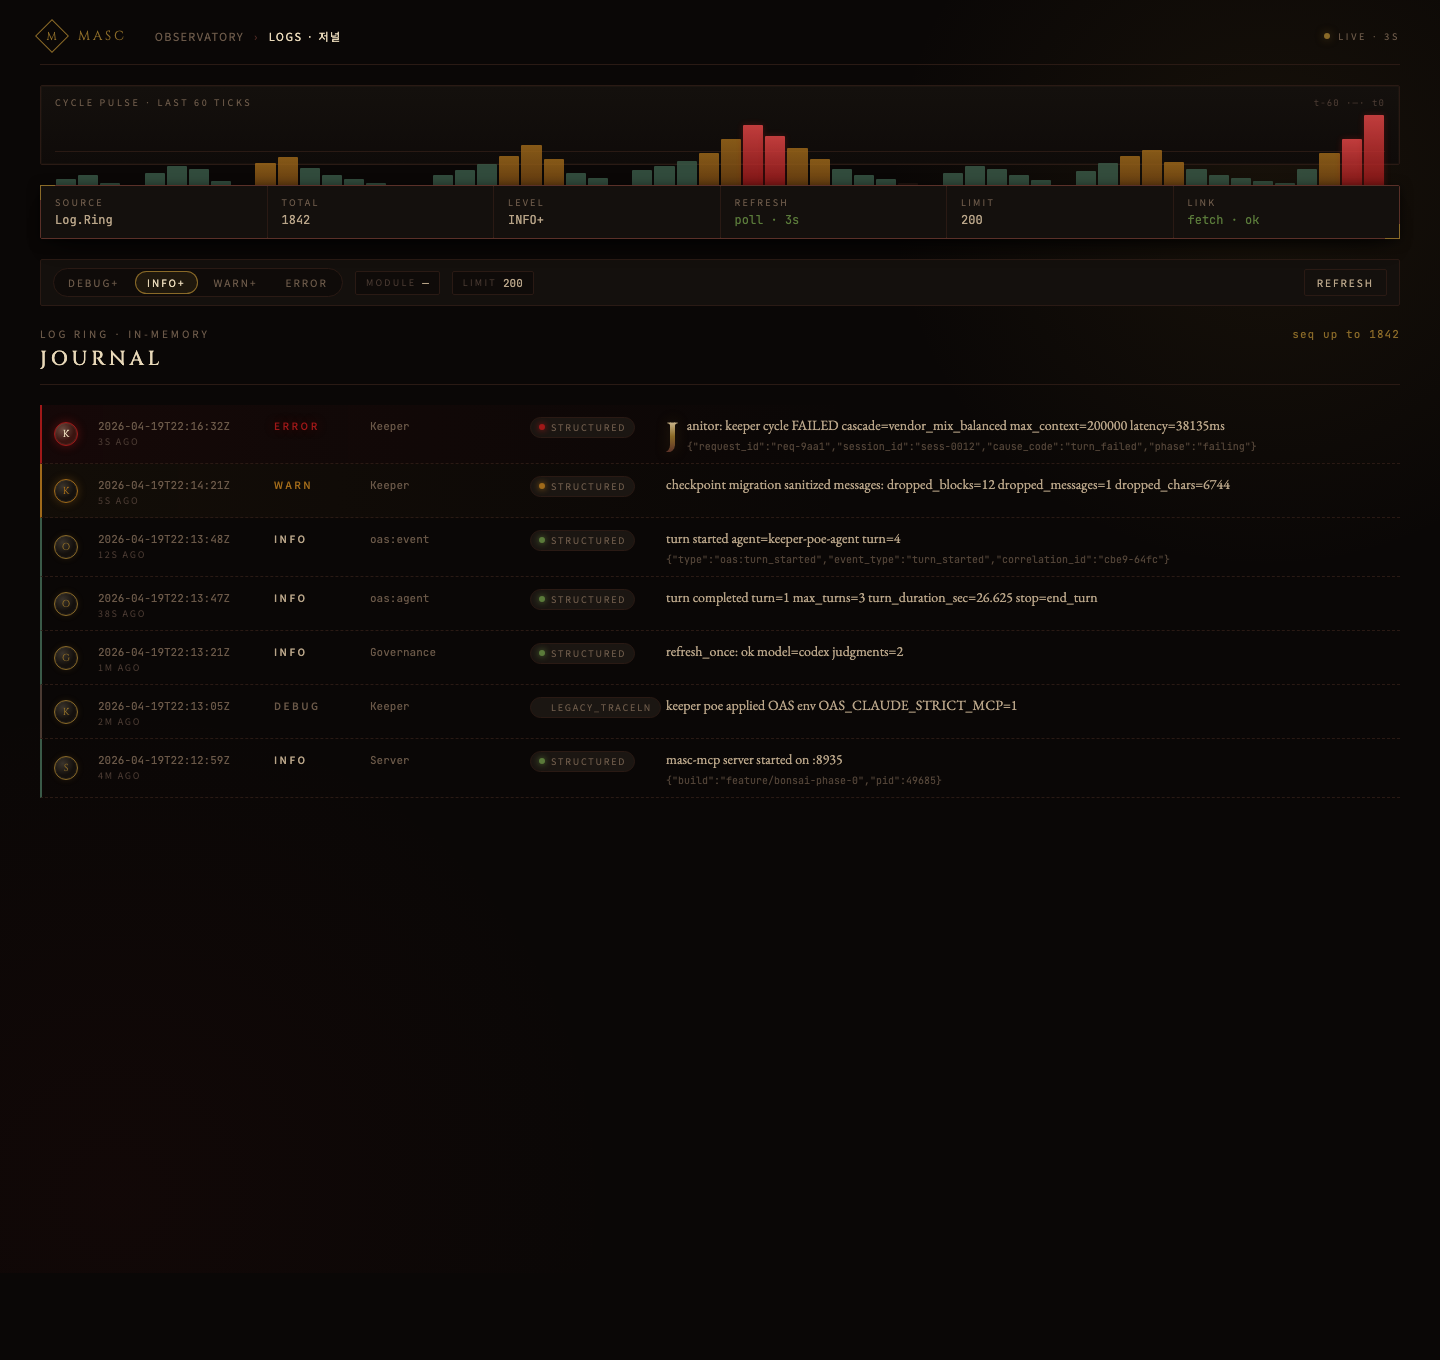
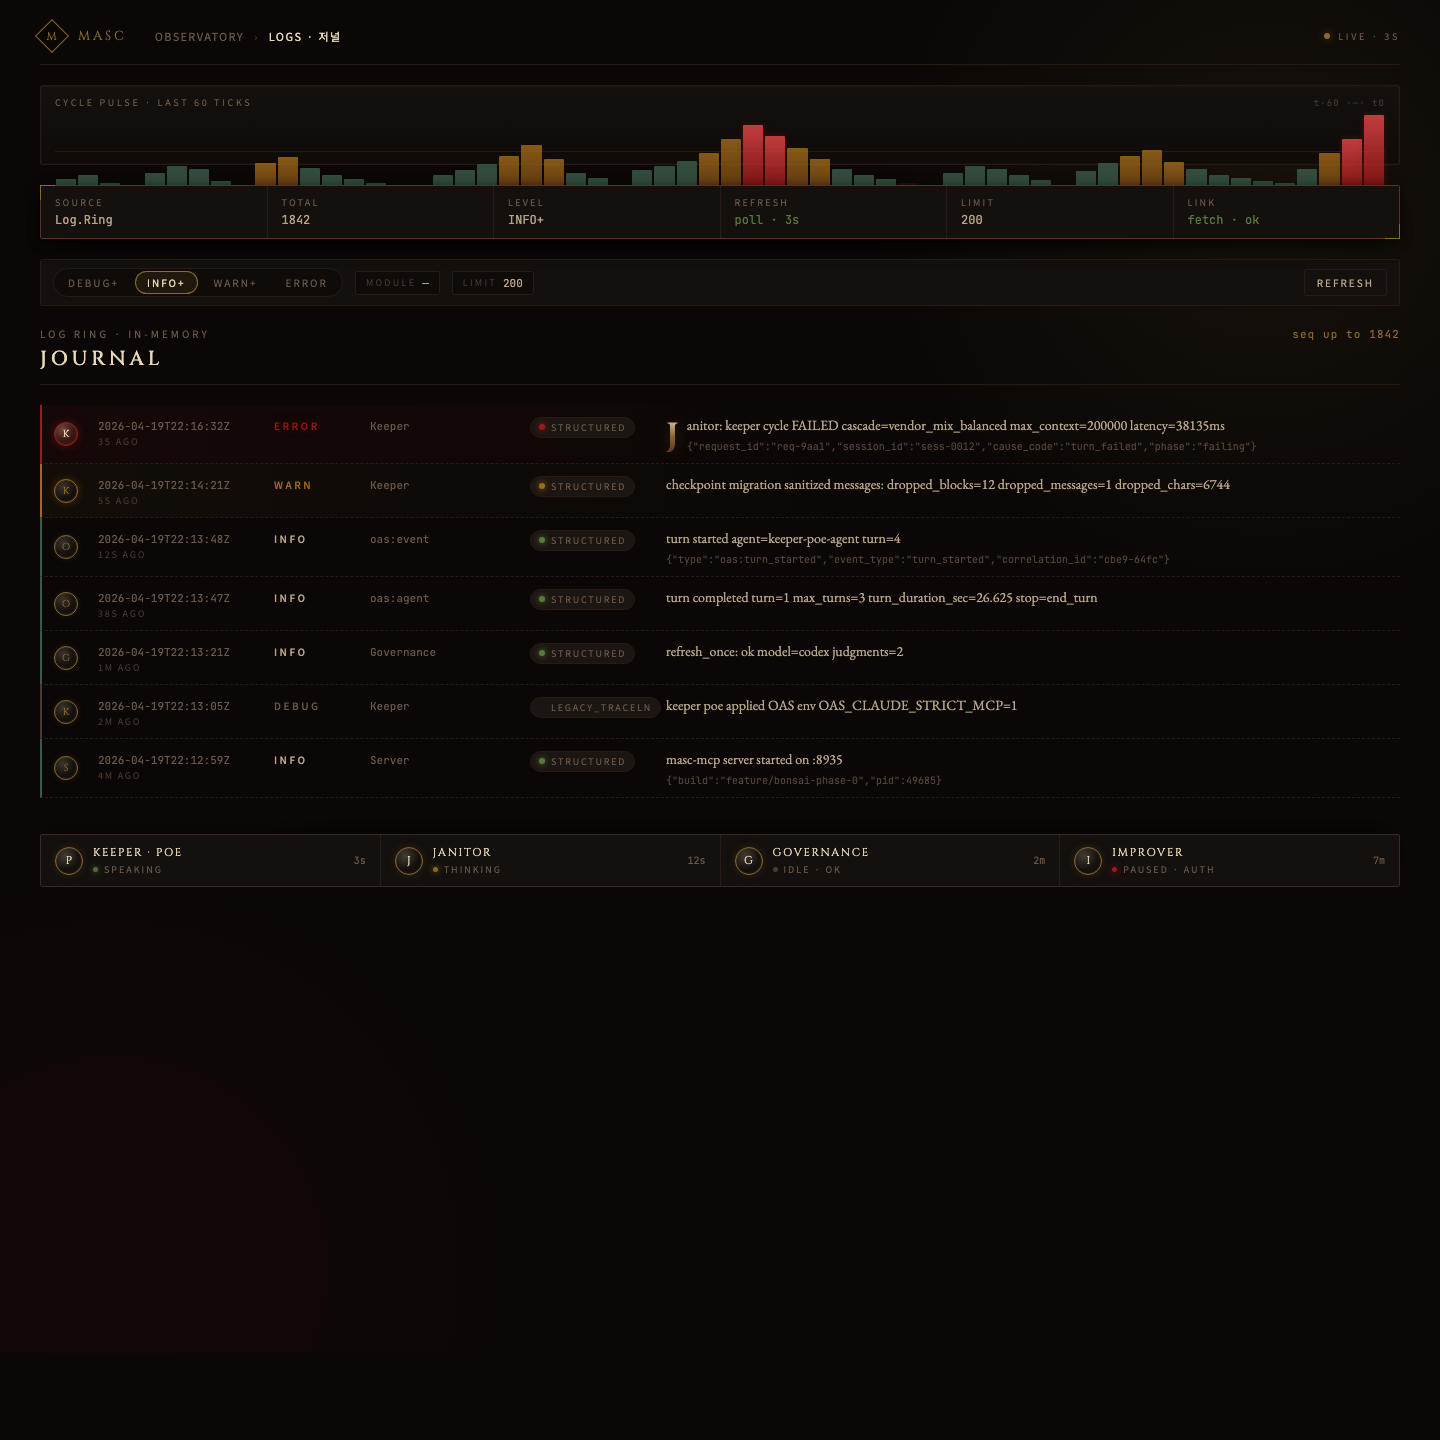
feat(dashboard-bonsai): add keeper roster footer strip (iter 11)
Sticky bottom 4-column strip closing the logs page — one slot per
keeper (poe / janitor / governance / improver) with a Cinzel sigil
disc, name in small caps, animated state dot (live/thinking/idle/
failed), and last-heard mono timestamp.

The roster echoes the brand bar at the top so the page opens and
closes on the same dark-brass beat, and reserves the surface where
Phase 1c+ wires a separate `keeper_status` Bonsai.Expert.Var — a
second data island coexisting with the existing logs Var on the
same page.

Bundle delta: +3.7 KB gzip (9,195,019 B total). ppx_css adds the
.roster family (sigil / body / name / state / dot × 4 variants /
when). View gains a local `keeper_state` polymorphic variant and a
`view_roster` builder; slot data is hardcoded for the mockup.

diff --git a/docs/bonsai-migration/visual-pitch.html b/docs/bonsai-migration/visual-pitch.html
@@ -98,6 +98,35 @@ html, body { margin: 0; background: #0a0706; }
 }
 .sigil.warn  { color: #a06a1a; border-color: #a06a1a; box-shadow: inset 0 0 0 1px rgba(232,216,184,0.06), 0 0 8px rgba(160,106,26,0.35); }
 .sigil.error { color: #e8d8b8; border-color: #a01818; background: radial-gradient(circle at 35% 30%, rgba(232,216,184,0.28), transparent 55%), #3a1410; box-shadow: inset 0 0 0 1px rgba(232,216,184,0.08), 0 0 10px rgba(160,24,24,0.45); }
+.roster {
+  position: sticky; bottom: 0; z-index: 3; margin-top: 1rem;
+  display: grid; grid-template-columns: repeat(4, 1fr); gap: 1px;
+  background: #2a1a14; border: 1px solid #3a2a20; border-radius: 2px;
+  box-shadow: inset 0 0 0 1px rgba(196,162,101,0.06), 0 -8px 24px -12px rgba(0,0,0,0.85);
+}
+.roster-slot { background: #14100d; padding: 10px 14px; display: flex; align-items: center; gap: 10px; }
+.roster-sigil {
+  width: 26px; height: 26px; border-radius: 50%; border: 1px solid #8a6a28;
+  background: radial-gradient(circle at 35% 30%, rgba(232,216,184,0.22), transparent 55%), #14100d;
+  display: grid; place-items: center;
+  font-family: 'Cinzel',serif; font-size: 11px; color: #e8d8b8; text-transform: uppercase;
+  box-shadow: inset 0 0 0 1px rgba(232,216,184,0.08), 0 0 8px rgba(138,106,40,0.22);
+  flex-shrink: 0;
+}
+.roster-body { display: flex; flex-direction: column; gap: 3px; min-width: 0; }
+.roster-name {
+  font-family: 'Cinzel',serif; font-size: 11px; letter-spacing: 0.16em; text-transform: uppercase; color: #e8d8b8;
+  white-space: nowrap; overflow: hidden; text-overflow: ellipsis;
+}
+.roster-state { display: flex; align-items: center; gap: 6px; font-family: 'Noto Sans KR',sans-serif; font-size: 9px; letter-spacing: 0.22em; text-transform: uppercase; color: #6a5848; }
+.roster-dot { width: 5px; height: 5px; border-radius: 50%; background: #6a5848; }
+.roster-dot.live     { background: #5a7a3a; box-shadow: 0 0 6px #5a7a3a; animation: pulse 1.8s ease-in-out infinite; }
+.roster-dot.thinking { background: #8a6a28; box-shadow: 0 0 6px #8a6a28; animation: pulse 1.2s ease-in-out infinite; }
+.roster-dot.idle     { background: #4a3a32; }
+.roster-dot.failed   { background: #a01818; box-shadow: 0 0 8px #a01818; }
+@keyframes pulse { 0%,100% { opacity: 0.55; } 50% { opacity: 1; } }
+.roster-when { margin-left: auto; font-family: 'JetBrains Mono',ui-monospace,Menlo,monospace; font-variant-numeric: tabular-nums; font-size: 10px; color: #6a5848; flex-shrink: 0; }
+
 .msg.lead::first-letter {
   font-family: 'Cinzel', 'EB Garamond', serif;
   font-weight: 600;
@@ -320,6 +349,41 @@ html, body { margin: 0; background: #0a0706; }
       <div class="msg">masc-mcp server started on :8935</div>
       <div class="details">{"build":"feature/bonsai-phase-0","pid":49685}</div>
     </div>
+  </div>
+</div>
+
+<div class="roster">
+  <div class="roster-slot">
+    <div class="roster-sigil">P</div>
+    <div class="roster-body">
+      <span class="roster-name">keeper · poe</span>
+      <div class="roster-state"><span class="roster-dot live"></span>speaking</div>
+    </div>
+    <span class="roster-when">3s</span>
+  </div>
+  <div class="roster-slot">
+    <div class="roster-sigil">J</div>
+    <div class="roster-body">
+      <span class="roster-name">janitor</span>
+      <div class="roster-state"><span class="roster-dot thinking"></span>thinking</div>
+    </div>
+    <span class="roster-when">12s</span>
+  </div>
+  <div class="roster-slot">
+    <div class="roster-sigil">G</div>
+    <div class="roster-body">
+      <span class="roster-name">governance</span>
+      <div class="roster-state"><span class="roster-dot idle"></span>idle · ok</div>
+    </div>
+    <span class="roster-when">2m</span>
+  </div>
+  <div class="roster-slot">
+    <div class="roster-sigil">I</div>
+    <div class="roster-body">
+      <span class="roster-name">improver</span>
+      <div class="roster-state"><span class="roster-dot failed"></span>paused · auth</div>
+    </div>
+    <span class="roster-when">7m</span>
   </div>
 </div>
 

diff --git a/docs/bonsai-migration/phase-1-report.md b/docs/bonsai-migration/phase-1-report.md
@@ -175,6 +175,16 @@ Design decisions:
   `Css_gen`-based inline `height: Npx` style per bar. Phase 3 chart
   binding budget: any library that exceeds the cost of this 60-bar
   strip (~3.7 KB gzip, zero runtime) must justify itself.
+- Iteration 11 (keeper roster footer strip): a sticky `position: sticky;
+  bottom: 0` 4-column roster closes the page — one slot per keeper
+  (P/J/G/I sigil disc, Cinzel name `keeper · poe` / `janitor` /
+  `governance` / `improver`, state label, last-heard mono timestamp).
+  State dots animate via `pulse-beat`: bile green "speaking", brass
+  "thinking", slate "idle", blood "paused · auth". The roster echoes
+  the brand bar at the top so the page opens and closes on the same
+  dark-brass beat, and it reserves a functional slot where Phase 1c+
+  will plug a `keeper_status` Var (independent of the logs Var) — a
+  second Bonsai data island coexisting on the same page.
 
 The Bonsai bundle renders this same design at
 `/dashboard/b/logs`. Because headless Chrome won't wait for the 9 MB